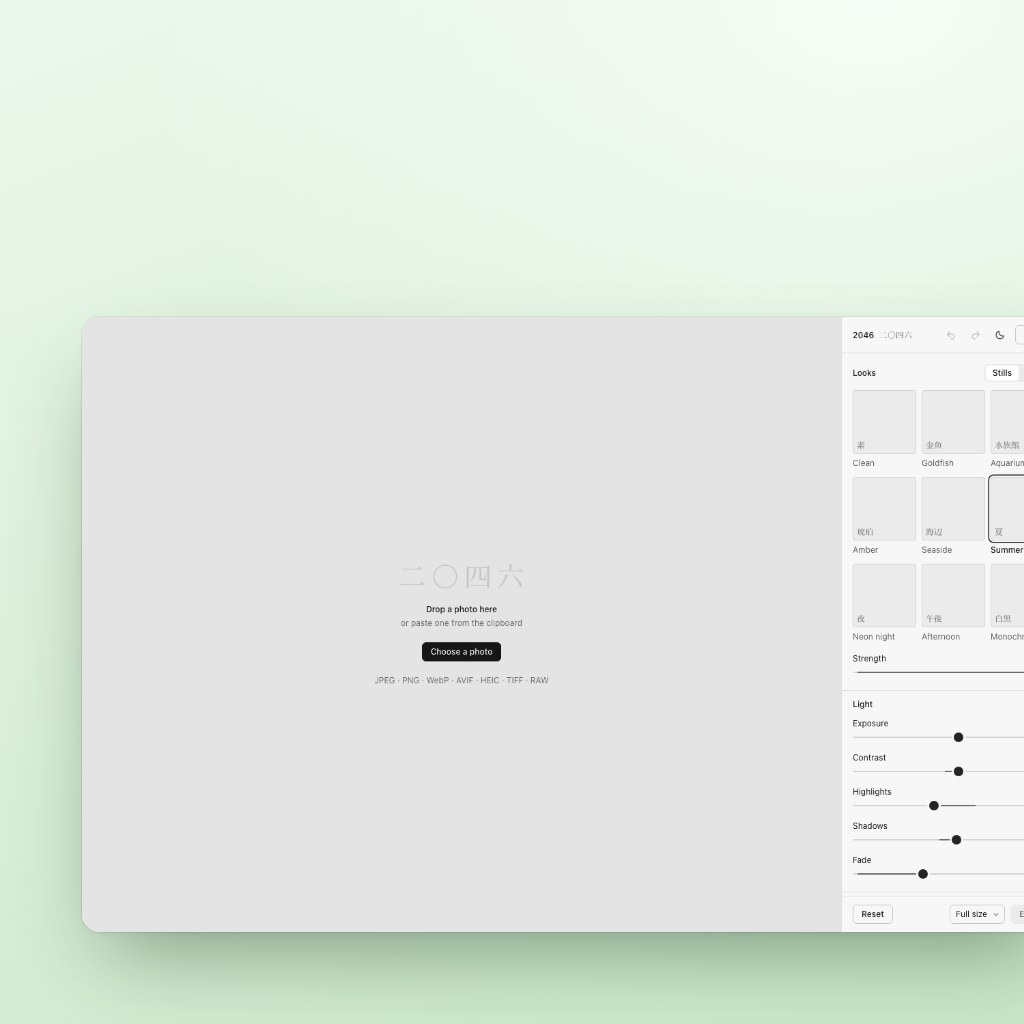
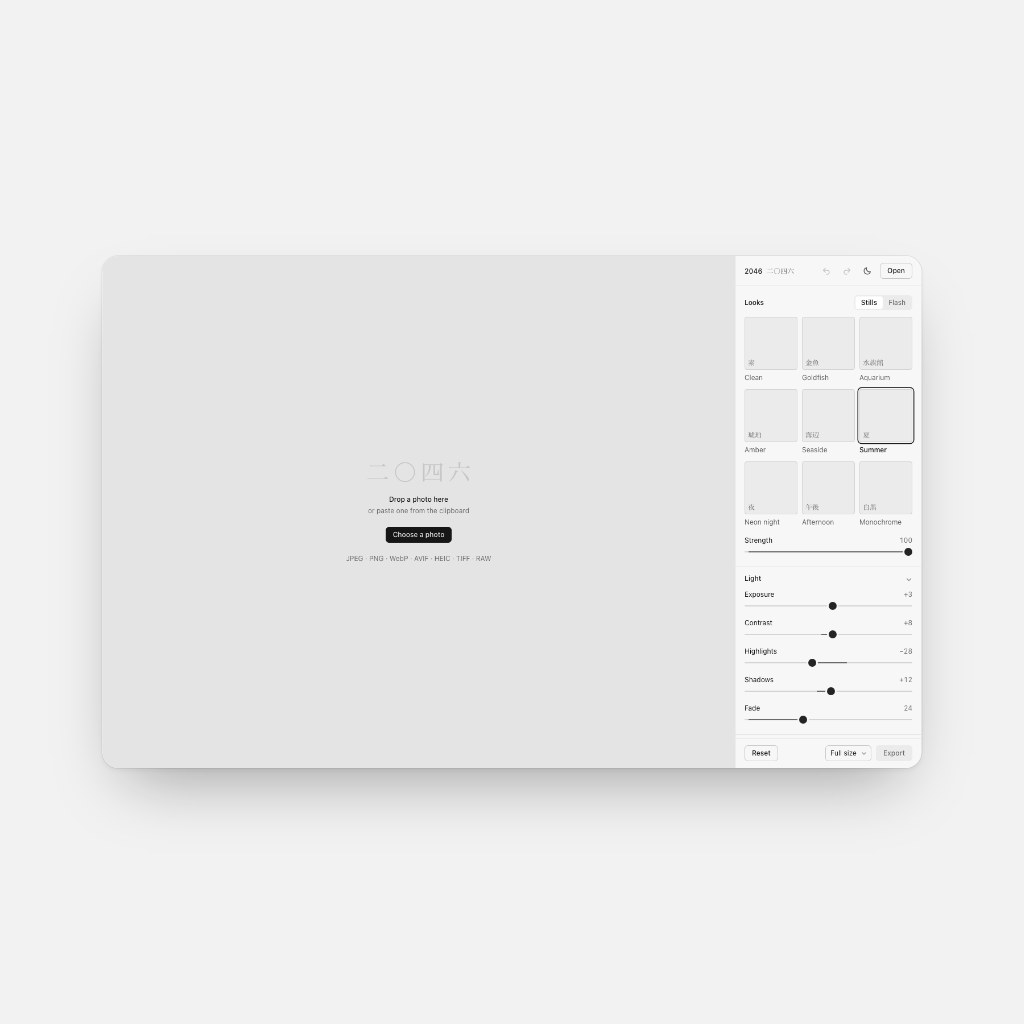
Covers: window centred on flat #f2f2f2

diff --git a/README.md b/README.md
@@ -60,7 +60,7 @@ Each tool lives in its own repo and its own deployment. This site is the index: 
    - `status: "archived"` keeps the tool page but leaves it out of the row.
    - The label under the name is the first tag, so put the most descriptive tag first.
 
-2. `npm run thumbs my-tool` to make its cover in `assets/thumbs/` (a screenshot set on a tinted square).
+2. `npm run thumbs my-tool` to make its cover in `assets/thumbs/` (a screenshot centred on a grey square).
 3. `npm test` to validate, `npm run readme` to refresh the table above.
 
 ## Run locally
